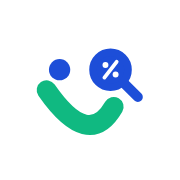
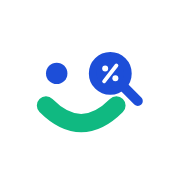
입이 대칭형인 최종 로고로 교체
헤더·푸터 로고 SVG와 파비콘·애플 아이콘을 다시 만든 최종본으로 바꾸고,
링크 공유 이미지를 브랜드 키트의 1200x630 이미지로 교체한다.

Claude-Session: https://claude.ai/code/session_01REbC75FbDubCk363vv2bV1

Changed region(s): [[0.1944, 0.25, 0.8056, 0.7222], [0.3889, 0.6389, 0.6667, 0.75], [0.2778, 0.3056, 0.3889, 0.4444]]

diff --git a/app/layout.tsx b/app/layout.tsx
@@ -12,7 +12,7 @@ export const metadata: Metadata = {
     description: site.description,
     url: site.url,
     siteName: site.name,
-    images: ["/images/og-logo.png"],
+    images: [{ url: "/images/og-image.png", width: 1200, height: 630 }],
     locale: "ko_KR",
     type: "website",
   },
